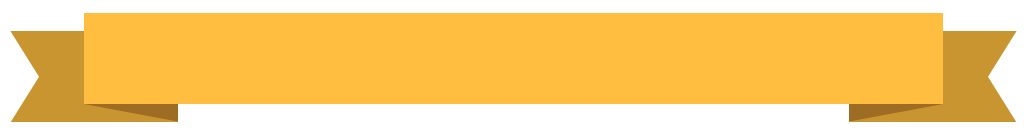
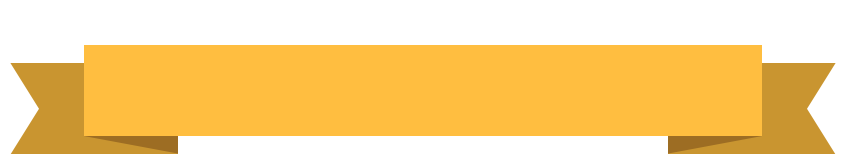
Removed extra header image
Adjusted css accordingly.

Changed region(s): [[0.0, 0.0889, 1.0, 0.9481]]

diff --git a/style.css b/style.css
@@ -131,8 +131,7 @@ ol li span {
 
 header {
   text-align: center;
-  background:url(images/headerflag2.png) no-repeat center;
-  /*background-color: rgba(255,255,204,0.4);*/
+  background:url(images/headerflag.png) no-repeat center;
   position: relative;
   padding:1em 0 .5em 0;
   margin: -1em 0 2em 0;
